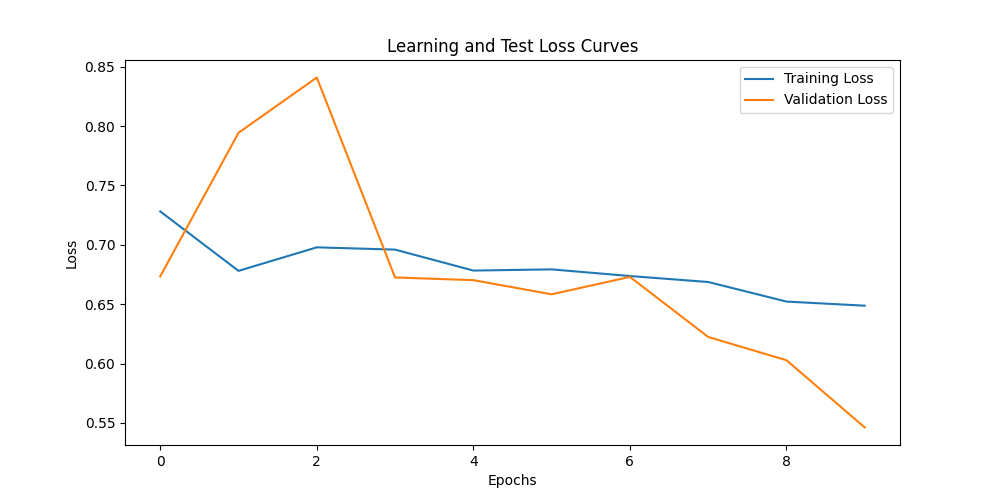
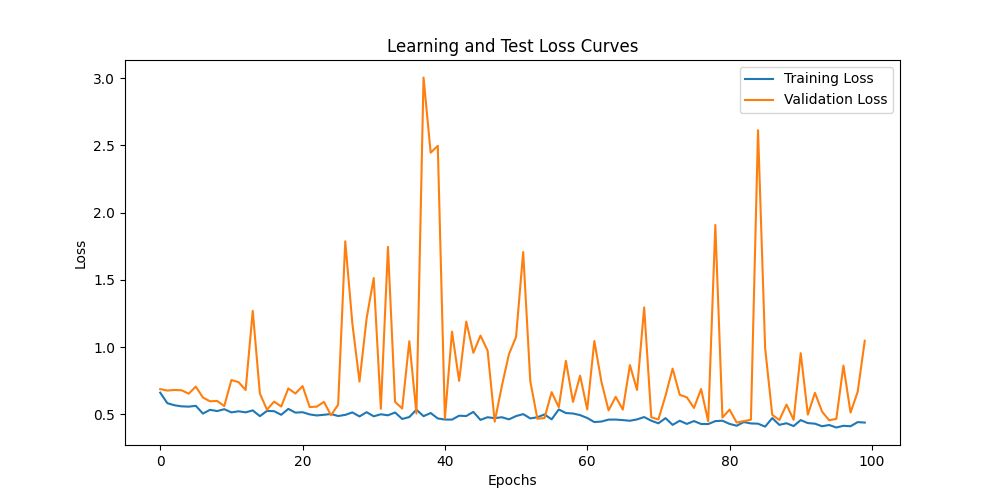
testing

diff --git a/cnn.py b/cnn.py
@@ -5,74 +5,126 @@ from tensorflow.keras.layers import Conv2D, MaxPooling2D, Flatten, Dense, Dropou
 import matplotlib.pyplot as plt
 from tensorflow.keras.preprocessing.image import ImageDataGenerator
 
-# Ścieżki do katalogów zestawów danych
+# Paths to dataset directories
 base_dir = '/home/koczka/Documents/ANN/processed_images'
 train_dir = os.path.join(base_dir, 'train')
 val_dir = os.path.join(base_dir, 'val')
 test_dir = os.path.join(base_dir, 'test')
 
-# Wstępne przetwarzanie danych i augmentacja
-# train_datagen = ImageDataGenerator(rescale=1./255)  # Normalizacja dla danych treningowych
-# val_datagen = ImageDataGenerator(rescale=1./255)    # Normalizacja dla danych walidacyjnych
-# test_datagen = ImageDataGenerator(rescale=1./255)   # Normalizacja dla danych testowych
+# Data preprocessing and augmentation
+train_datagen = ImageDataGenerator(
+    rescale=1./255,  # Normalization for training data
+    shear_range=0.2,
+    zoom_range=0.2,
+    horizontal_flip=True
+)
+val_datagen = ImageDataGenerator(rescale=1./255)  # Normalization for validation data
+test_datagen = ImageDataGenerator(rescale=1./255)  # Normalization for test data
 
-train_datagen = ImageDataGenerator()
-val_datagen = ImageDataGenerator()
-test_datagen = ImageDataGenerator()
-
-# Generator danych
+# Data generators
 train_generator = train_datagen.flow_from_directory(
     train_dir,
     target_size=(128, 128),
     batch_size=10,
-    class_mode='binary')
+    class_mode='binary'
+)
 
 val_generator = val_datagen.flow_from_directory(
     val_dir,
     target_size=(128, 128),
     batch_size=10,
-    class_mode='binary')
+    class_mode='binary'
+)
 
 test_generator = test_datagen.flow_from_directory(
     test_dir,
     target_size=(128, 128),
     batch_size=10,
-    class_mode='binary')
+    class_mode='binary'
+)
 
-# Zdefiniowanie modelu CNN
+# Convert the generators to tf.data.Datasets
+train_dataset = tf.data.Dataset.from_generator(
+    lambda: train_generator,
+    output_types=(tf.float32, tf.float32),
+    output_shapes=([None, 128, 128, 3], [None])
+).repeat()
+
+val_dataset = tf.data.Dataset.from_generator(
+    lambda: val_generator,
+    output_types=(tf.float32, tf.float32),
+    output_shapes=([None, 128, 128, 3], [None])
+).repeat()
+
+test_dataset = tf.data.Dataset.from_generator(
+    lambda: test_generator,
+    output_types=(tf.float32, tf.float32),
+    output_shapes=([None, 128, 128, 3], [None])
+)
+
+# # Define the CNN model
+# model = models.Sequential([
+#     Input(shape=(128, 128, 3)),
+    
+#     # First Convolutional Block
+#     Conv2D(6, (3, 3), activation='relu'),
+#     layers.BatchNormalization(),
+#     MaxPooling2D((2, 2)),
+    
+#     # Second Convolutional Block
+#     Conv2D(12, (3, 3), activation='relu'),
+#     layers.BatchNormalization(),
+#     MaxPooling2D((2, 2)),
+    
+#     # Third Convolutional Block
+#     Conv2D(32, (3, 3), activation='relu'),
+#     MaxPooling2D((2, 2)),
+#     layers.BatchNormalization(),
+    
+#     # Fully Connected Layers
+#     Flatten(),
+#     Dropout(0.5),
+#     Dense(32, activation='relu'),
+#     Dropout(0.5),
+#     Dense(1, activation='sigmoid')
+# ])
+
+# Define the CNN model
 model = models.Sequential([
     Input(shape=(128, 128, 3)),
-    layers.Conv2D(32, (3, 3), activation='relu'),
-    layers.MaxPooling2D((2, 2)),
-    layers.Conv2D(64, (3, 3), activation='relu'),
-    layers.MaxPooling2D((2, 2)),
-    layers.Conv2D(128, (3, 3), activation='relu'),
-    layers.MaxPooling2D((2, 2)),
-    layers.Flatten(),
+    
+    # First Convolutional Block
+    Conv2D(6, (7, 7), activation='relu'),
+    MaxPooling2D((3, 3)),
+    Dense(6, activation='relu'),
+    Dense(12, activation='relu'),
+    Dense(32, activation='relu'),
+    layers.BatchNormalization(),
+    Flatten(),
     Dropout(0.5),
-    layers.Dense(128, activation='relu'),
-    Dropout(0.5),
-    layers.Dense(1, activation='sigmoid')
+    Dense(1, activation='sigmoid')
 ])
 
-# Kompilacja modelu
+
+# Compile the model
 model.compile(optimizer='adam',
               loss='binary_crossentropy',
               metrics=['accuracy'])
 
-# Trenowanie modelu
+# Train the model
 history = model.fit(
-    train_generator,
-    steps_per_epoch=5,  # Dostosuj liczby zależnie od liczby danych
-    epochs=10,
-    validation_data=val_generator,
-    validation_steps=1
-    )
+    train_dataset,
+    steps_per_epoch=train_generator.samples // train_generator.batch_size,
+    epochs=100,
+    validation_data=val_dataset,
+    validation_steps=val_generator.samples // val_generator.batch_size
+)
 
-# Ocena modelu na danych testowych
-test_loss, test_acc = model.evaluate(test_generator, steps=10)
+# Evaluate the model on test data
+test_loss, test_acc = model.evaluate(test_dataset, steps=test_generator.samples // test_generator.batch_size)
 print(f'Test accuracy: {test_acc}')
 
+# Plot learning and test loss curves
 plt.figure(figsize=(10, 5))
 plt.plot(history.history['loss'], label='Training Loss')
 plt.plot(history.history['val_loss'], label='Validation Loss')
@@ -80,5 +132,5 @@ plt.title('Learning and Test Loss Curves')
 plt.xlabel('Epochs')
 plt.ylabel('Loss')
 plt.legend()
-plt.savefig(f'learning_test_loss_curves_SINGLE.png')
+plt.savefig('learning_test_loss_curves_2.png')
 plt.close()
